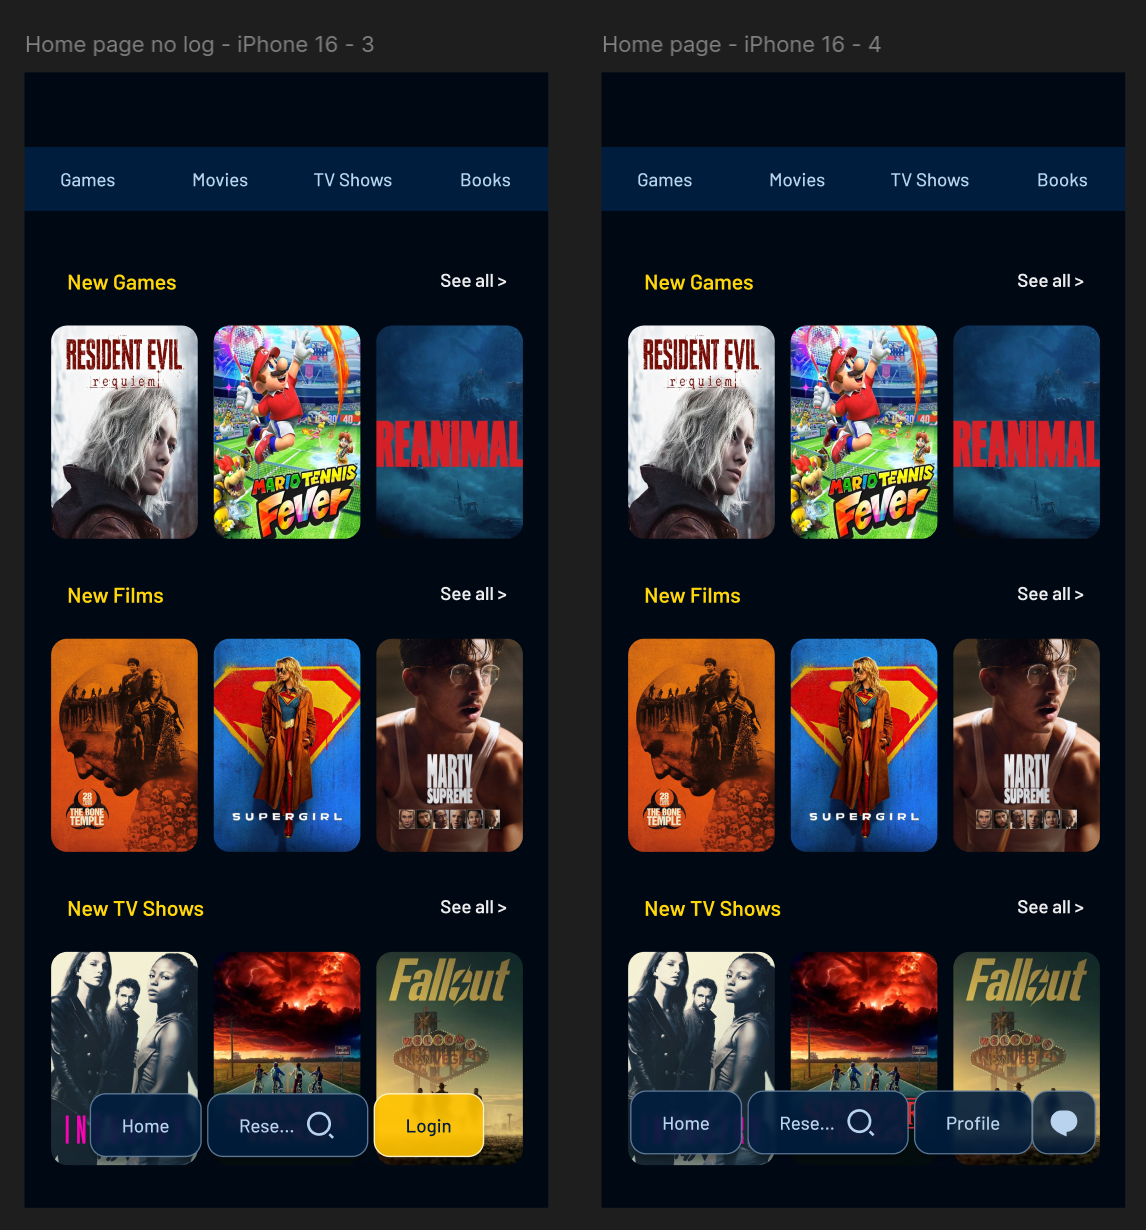
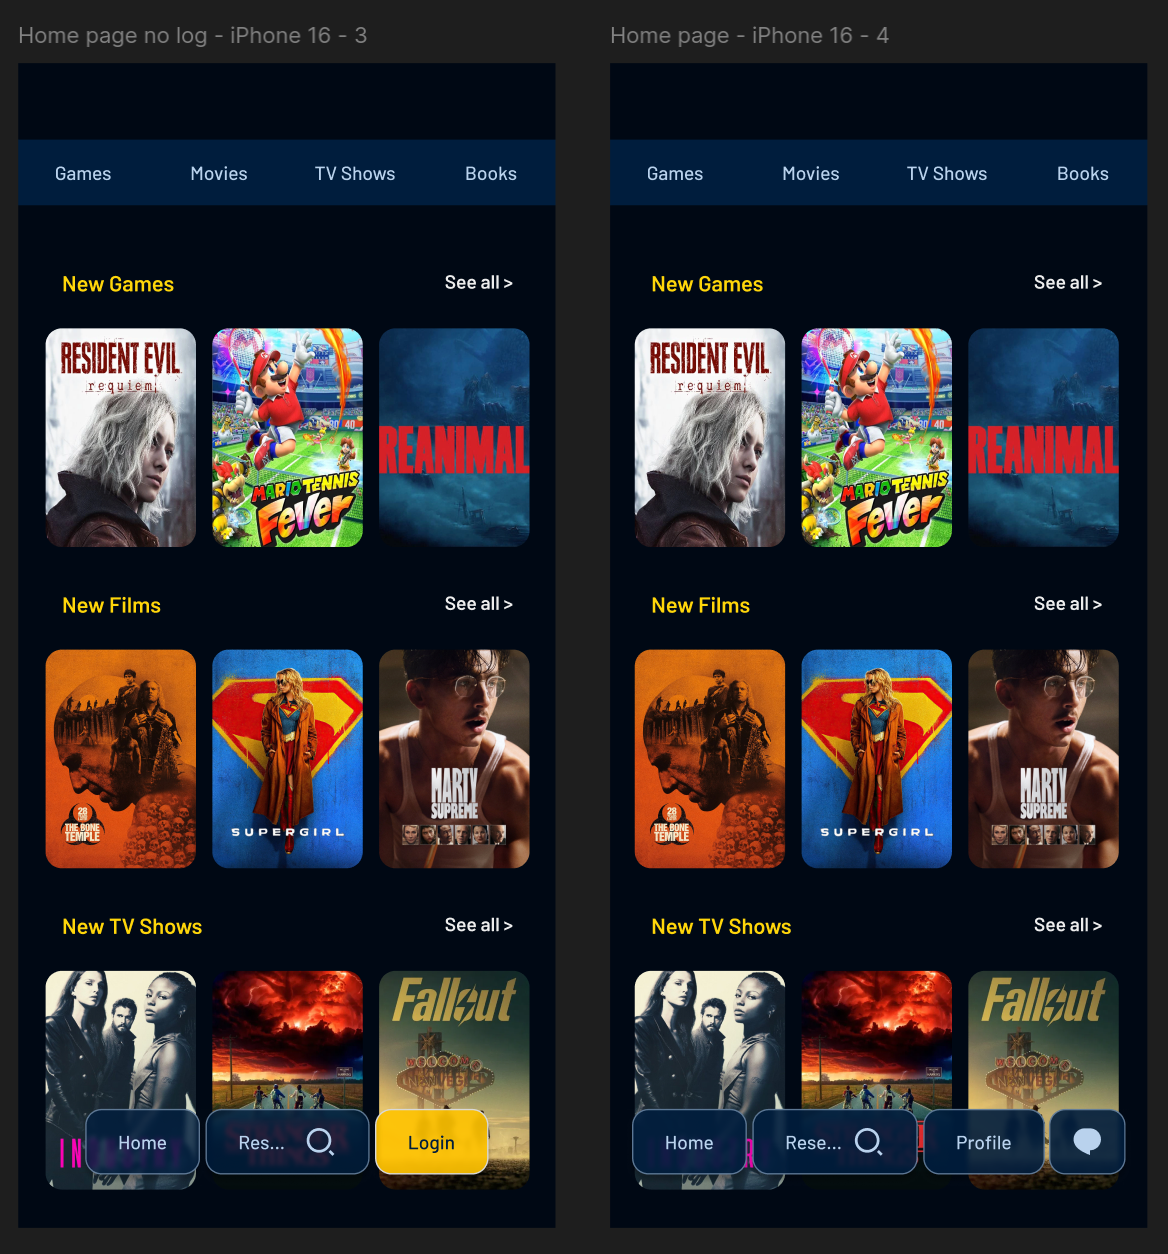
docs - 06_prototype + 07_feedback: add link prototype + readme + protocol and feedback

diff --git a/docs/06_prototype/prototype.md b/docs/06_prototype/prototype.md
@@ -1,3 +1,51 @@
 ## Prototype
 
-**Figma link**
+### Figma link:
+
+**Desktop version:** https://www.figma.com/proto/1dDHq996Kk5qa3rWck6MTT/Yowl?node-id=57-470&t=dlxWCK7gQHqi0MEK-1&scaling=min-zoom&content-scaling=fixed&page-id=0%3A1&starting-point-node-id=57%3A470&show-proto-sidebar=1
+
+**Mobile version:** https://www.figma.com/proto/1dDHq996Kk5qa3rWck6MTT/Yowl?node-id=44-363&t=OpLZq6SRHj2jM9FP-1&scaling=min-zoom&content-scaling=fixed&page-id=0%3A1&starting-point-node-id=57%3A630&show-proto-sidebar=1
+
+## Description
+
+### Prototype – Desktop Version
+
+- We start on the home page when we are not logged in.  
+  We click on the yellow **“Log in”** button at the top right.
+- We arrive on the login page: this is the page where we can create an account, reset our password, or simply log in.  
+  We click on **“Log in.”**
+- We arrive on our profile page.  
+  On this page, we click on the **“Books”** button in the filters.
+- We arrive on the page with all the books (“read” and “to read”).  
+  We click on the second book.
+- We arrive on the information page of this book.  
+  We click on the **“Reviews”** button in the filters.
+- We arrive on the “Reviews” section of the selected book.  
+  Then we click on **“Research.”**
+- We arrive on another user’s profile page.  
+  We click on the **“Home”** button in the header.
+- We go back to the main page of the site, where we click on the **“Profile”** button in the header.
+- We return to our profile page.  
+  We click on the red **“Log out”** button.
+- We return to the login page.
+
+### Prototype – Mobile Version
+
+- We start on the home page when we are not logged in.  
+  We click on the yellow **“Log in”** button at the bottom right.
+- We arrive on the login page: this is the page where we can create an account, reset our password, or simply log in.  
+  We click on **“Log in.”**
+- We arrive on our profile page.  
+  On this page, we click on the **“Books”** button in the filters.
+- We arrive on the page with all the books (“read” and “to read”), where we can scroll.  
+  We click on the second book.
+- We arrive on the information page of this book.  
+  We scroll, then in the filters we scroll to the right and click on the **“Reviews”** button.
+- We arrive on the “Reviews” section of the selected book.  
+  Then we click on the icon at the top left to go back.
+- We return to the book information page, then we click again on the icon to go back.
+- We go back to our profile page.  
+  We click on the **“Home”** button in the navbar.
+- We return to the main page, then we click on the **“Profile”** button in the navbar.
+- We return to our profile page, then we click on the red **“Log out”** button.
+- We end on the login page.

diff --git a/docs/07_feedback/test_protocol.md b/docs/07_feedback/test_protocol.md
@@ -1,0 +1,51 @@
+## Test Protocol – FEEDBACK
+
+## Objective
+
+The goal of this test is to evaluate the usability and navigation of the prototype on both desktop and mobile versions.  
+Testers are asked to follow a predefined user journey in order to identify any difficulties, confusion, or usability issues.
+
+## Context
+
+Testers should use the prototype as if they were real users discovering the application for the first time.  
+They should speak out loud when possible and explain what they think each button or page is for.
+
+---
+
+## Test Tasks – Desktop Version
+
+1. Start on the home page while not logged in.
+2. Log yourself.
+3. Once on your profile page, go to the books list of your profil.
+4. Get more information about a book.
+5. Write a review of this book..
+6. In the reviews section, access another user’s profile.
+7. Go back to the home page.
+8. Go back to your profile.
+9. Log out.
+
+---
+
+## Test Tasks – Mobile Version
+
+1. Start on the home page while not logged in.
+2. Log yourself.
+3. Once on your profile page, go to the books list of your profil.
+4. Get more information about a book.
+5. Write a review of this book..
+6. Return to your profile page.
+7. Go back to the home page.
+8. Go back to your profile.
+9. Log out.
+
+---
+
+## Observation Criteria
+
+During the test, observe and note:
+
+- If the tester hesitates or gets lost
+- If buttons are easy to understand and find
+- If navigation feels logical
+- Any comments or frustrations expressed by the tester
+- Any actions that do not match the intended user journey

diff --git a/docs/07_feedback/README.md b/docs/07_feedback/README.md
@@ -1,0 +1,37 @@
+# /docs/07_feedback
+
+This folder contains the documentation related to user testing of the prototype.
+
+## Contents
+
+### test_protocol.md
+
+This file describes the testing scenario given to the testers.  
+It explains:
+
+- The goal of the test
+- The context in which testers used the prototype
+- The tasks they were asked to complete on desktop and mobile versions
+
+This document serves as a guide to understand what actions testers were instructed to perform.
+
+### feedback_summary.md
+
+This file contains the consolidated feedback from 3 to 5 testers (classmates).  
+It includes:
+
+- Notes collected during or after the tests
+- Recurring problems and usability issues
+- Points of confusion
+- Opportunities for improvement
+
+The feedback is grouped by themes to highlight patterns rather than individual opinions.
+
+## Purpose
+
+The goal of this folder is to:
+
+- Show how the prototype was tested
+- Demonstrate a user-centered design approach
+- Identify usability problems
+- Provide a base for future improvements and prioritization

diff --git a/docs/07_feedback/feedback_summary.md b/docs/07_feedback/feedback_summary.md
@@ -1,0 +1,7 @@
+## To examinate
+
+- If the tester hesitates or gets lost
+- If buttons are easy to understand and find
+- If navigation feels logical
+- Any comments or frustrations expressed by the tester
+- Any actions that do not match the intended user journey

diff --git a/docs/02_personas/README.md b/docs/02_personas/README.md
@@ -1,4 +1,4 @@
-## /docs/02_personas — README
+## /docs/02_personas 
 
 This document presents four personas representing different user profiles and needs related to culture, entertainment, and recommendation tools.
 

diff --git a/docs/01_research/README.md b/docs/01_research/README.md
@@ -1,4 +1,4 @@
-## /docs/01_research — Summary
+## /docs/01_research 
 
 This folder contains the deliverables from the user and market research phase.
 

diff --git a/docs/05_mockups/README.md b/docs/05_mockups/README.md
@@ -1,4 +1,4 @@
-## /docs/05_mockups — README
+## /docs/05_mockups 
 
 This folder contains the high-fidelity mockups of the application.
 
